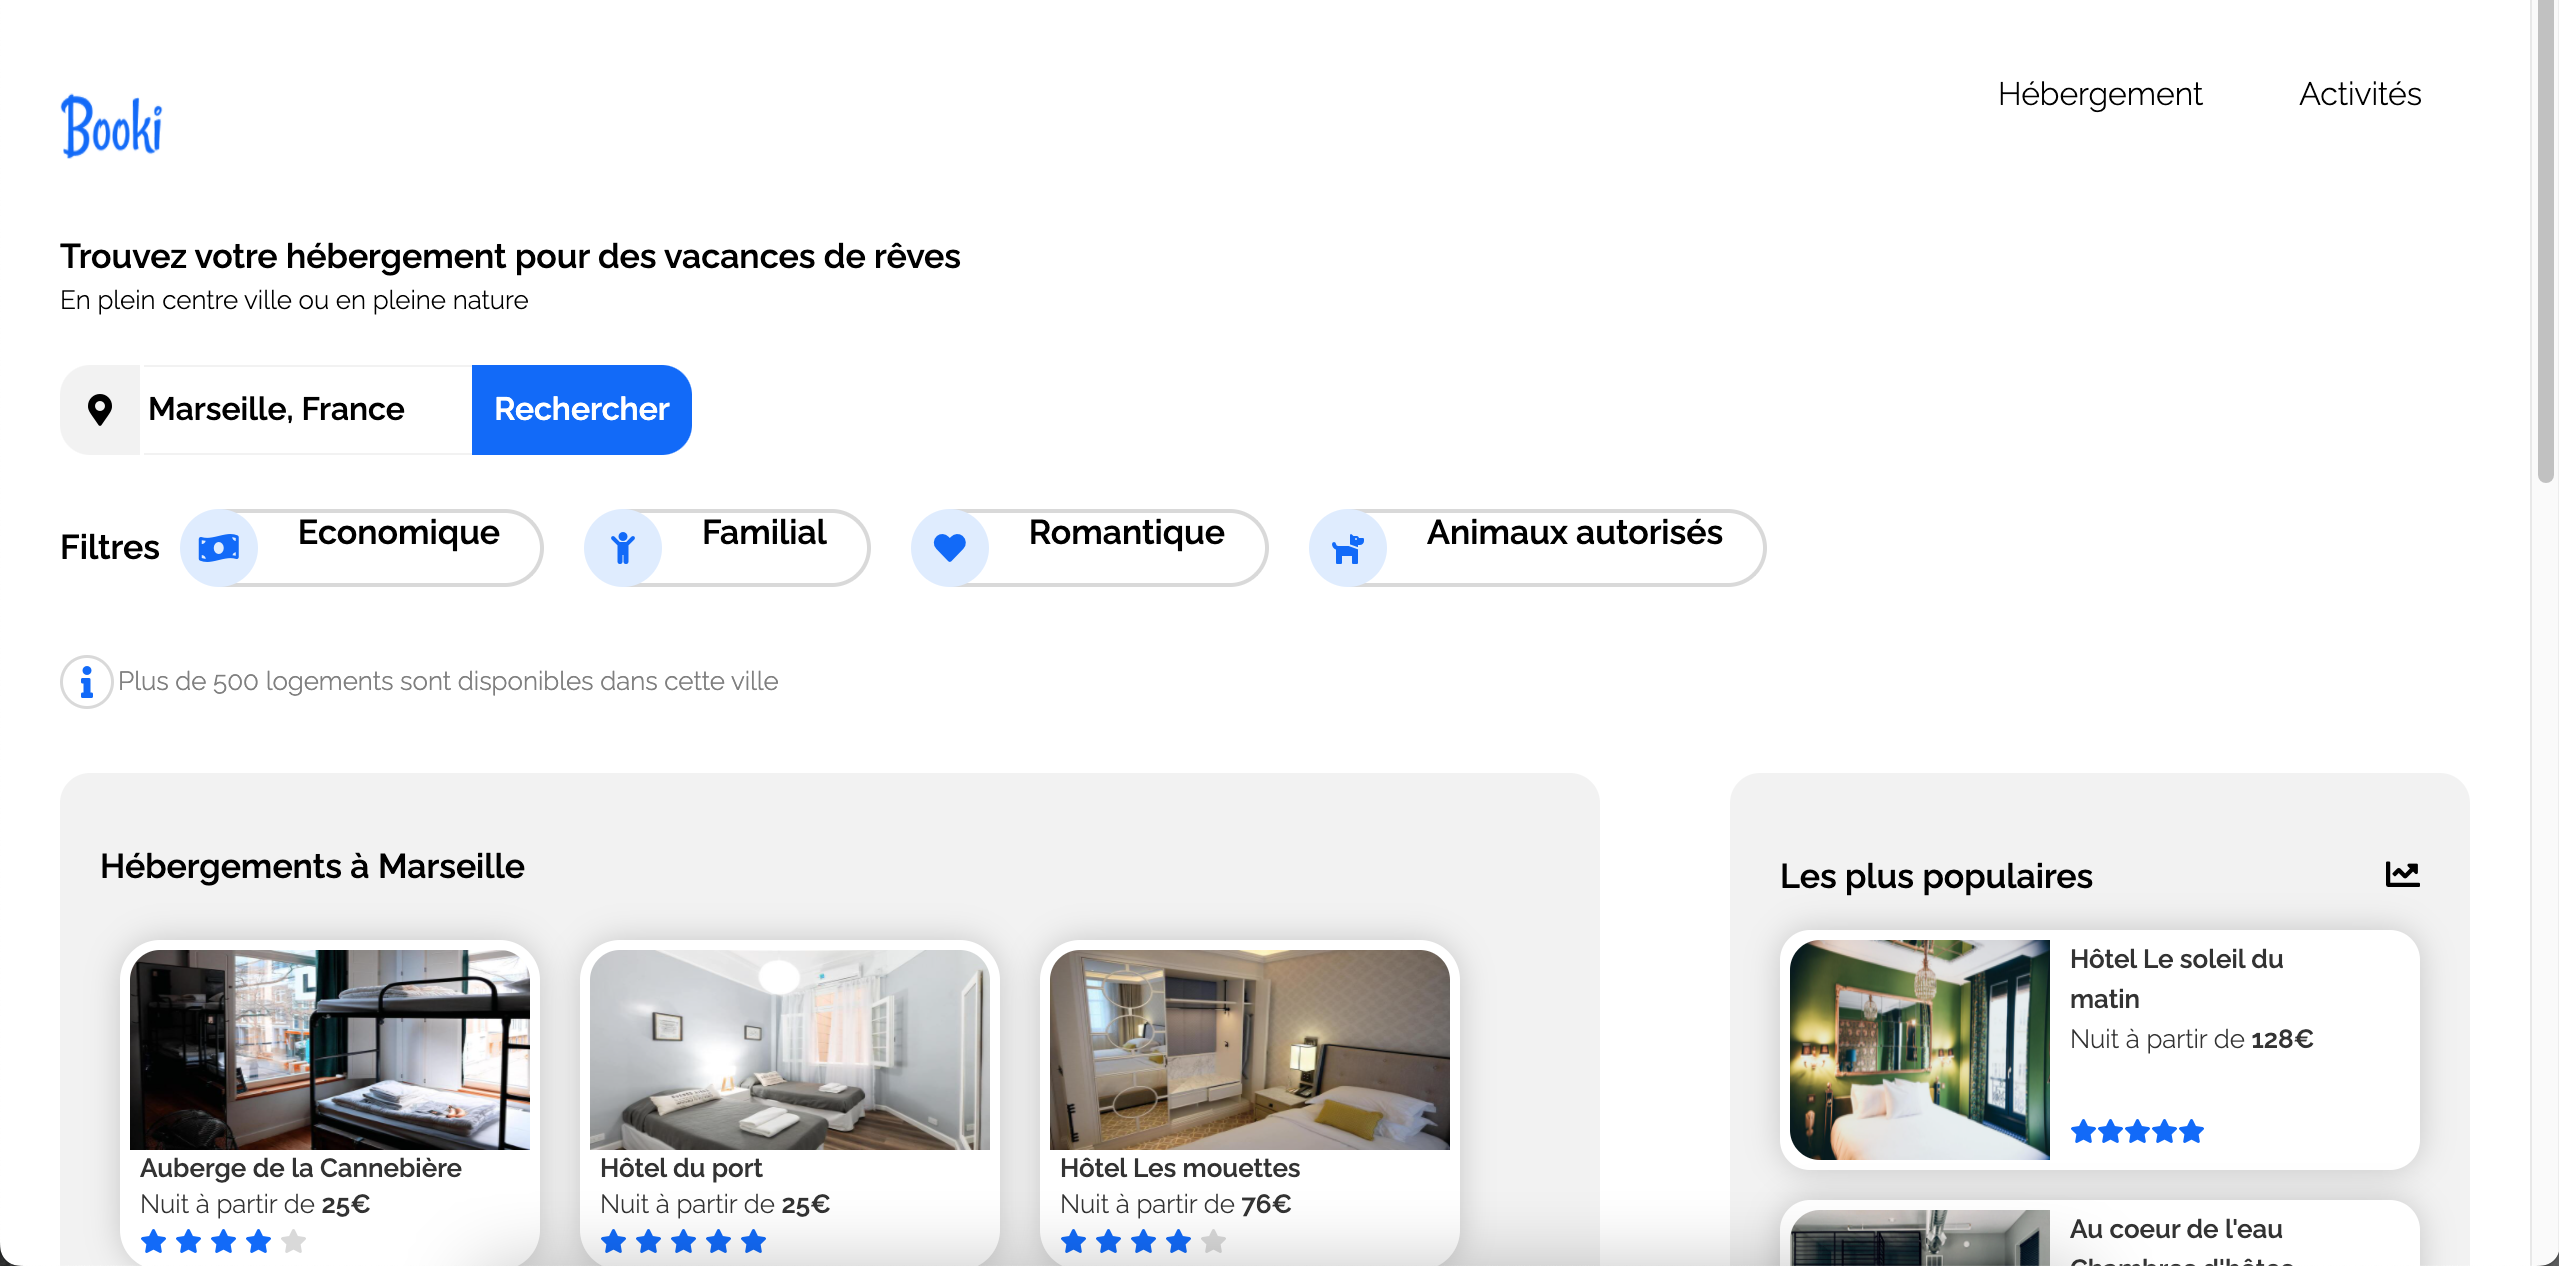
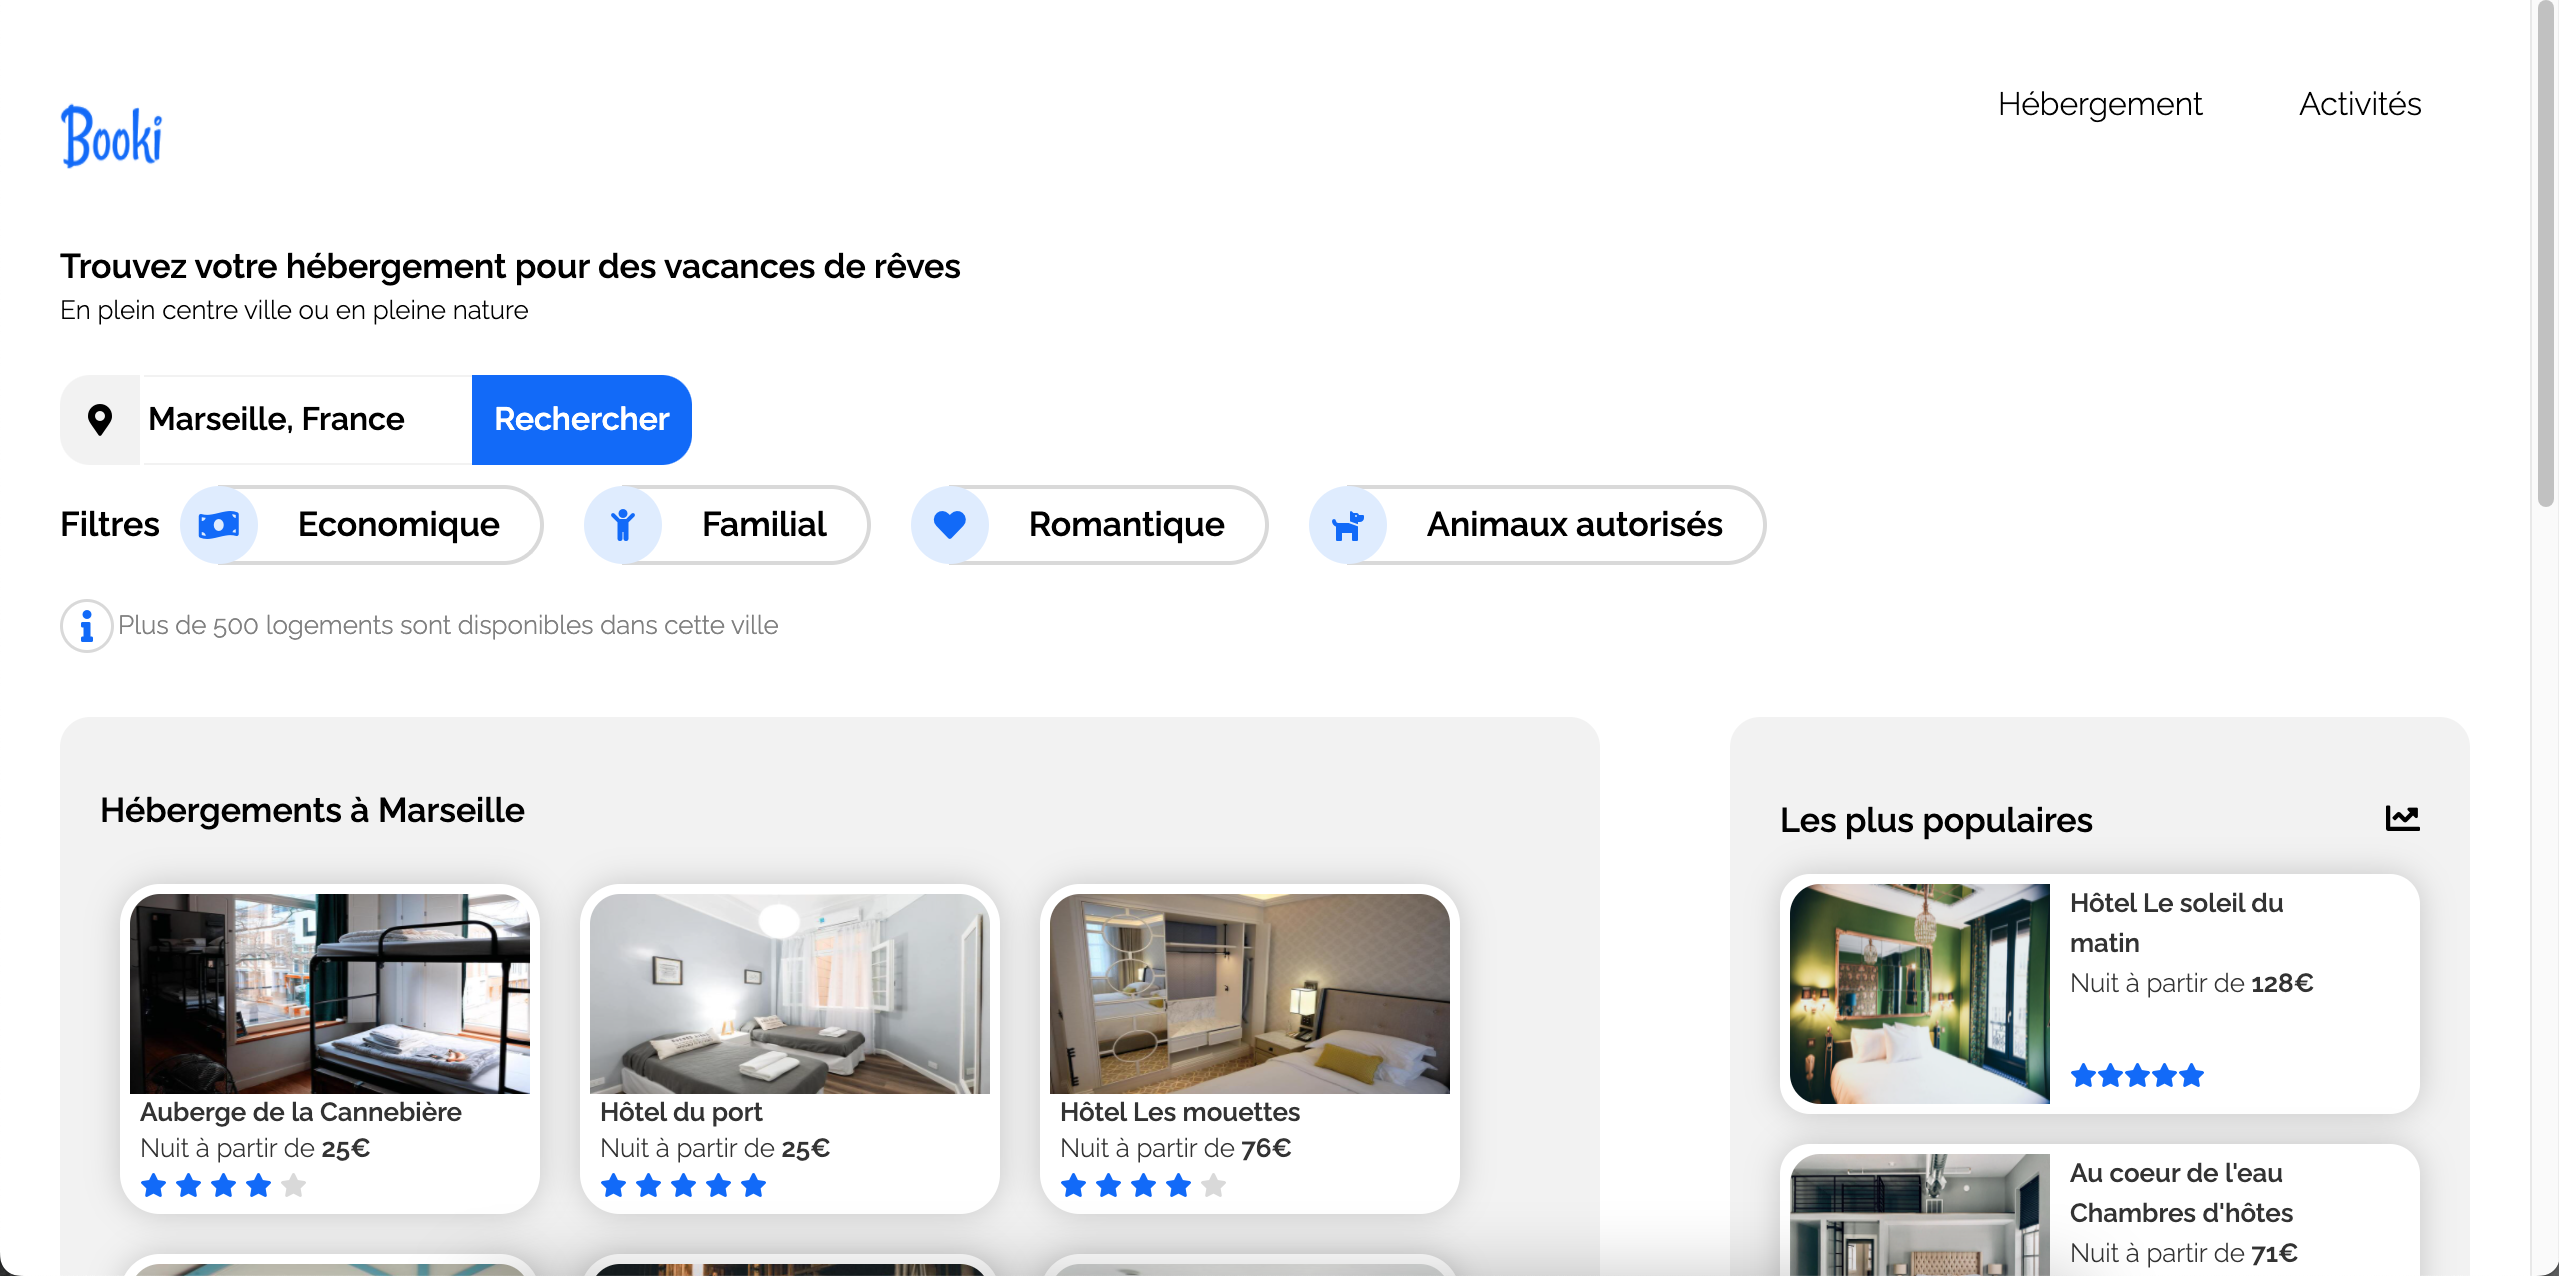
Add some layout fix

diff --git a/index.html b/index.html
@@ -47,19 +47,19 @@
                 <p class="sectionTitle"> Filtres</p>
                 <div class="filterItems">
                     <i id="filterIcon" class="fas fa-money-bill-wave"></i>
-                    <p class="filterLabel">Economique</p>
+                    <a class="filterLabel" href="#">Economique</a>
                 </div>
                 <div class="filterItems">
                     <i id="filterIcon" class="fas fa-child"></i>
-                    <p class="filterLabel">Familial</p>
+                    <a class="filterLabel" href="#">Familial</a>
                 </div>
                 <div class="filterItems">
                     <i id="filterIcon" class="fas fa-heart"></i>
-                    <p class="filterLabel">Romantique</p>
+                    <a class="filterLabel" href="#">Romantique</a>
                 </div>
                 <div class="filterItems">
                     <i id="filterIcon" class="fas fa-dog"></i>
-                    <p class="filterLabel">Animaux autorisés</p>
+                    <a class="filterLabel" href="#">Animaux autorisés</a>
                 </div>
             </div>
             <div class="searchFiltersSubtitle">

diff --git a/css/style.css b/css/style.css
@@ -7,9 +7,6 @@ style.css
 /*
 Font
 ---------
-
-*/
-/*@import url("https://fonts.googleapis.com/css2?family=Raleway:wght@300;400;500;600;700;800;900&display=swap");
 */
 
 @font-face {
@@ -139,8 +136,6 @@ input {
     align-items: center;
     justify-content: center;
     margin-right: 2px;
-
-
 }
 
 input {
@@ -154,7 +149,6 @@ input {
     box-sizing: border-box;
     font-weight: bold;
     font-family: "Raleway";
-
 }
 
 .searchButton {
@@ -217,7 +211,7 @@ input {
 }
 
 .filterLabel {
-    height: 35px;
+    height: 28px;
     width: auto;
     font-family: 'Raleway';
     font-weight: bold;
@@ -229,6 +223,12 @@ input {
     transition-duration: 0.5s;
     padding-left: 40px;
     padding-right: 20px;
+    padding-top: 8px;
+    text-decoration: none;
+}
+
+.filterLabel:visited {
+    color: black;
 }
 
 .filterLabel:hover {

diff --git a/readme.md b/readme.md
@@ -12,3 +12,7 @@ Analyser la maquette pour la découper et ainsi determiner les les différentes 
 Une fois le découpage efféctué, il convient de commencer à coder en commençant par le haeder et de descendre au fur et à mesure sur la page.
 
 ![ScreenShot](assets/cover.png)
+
+## La maquette & structure
+
+Bientôt
